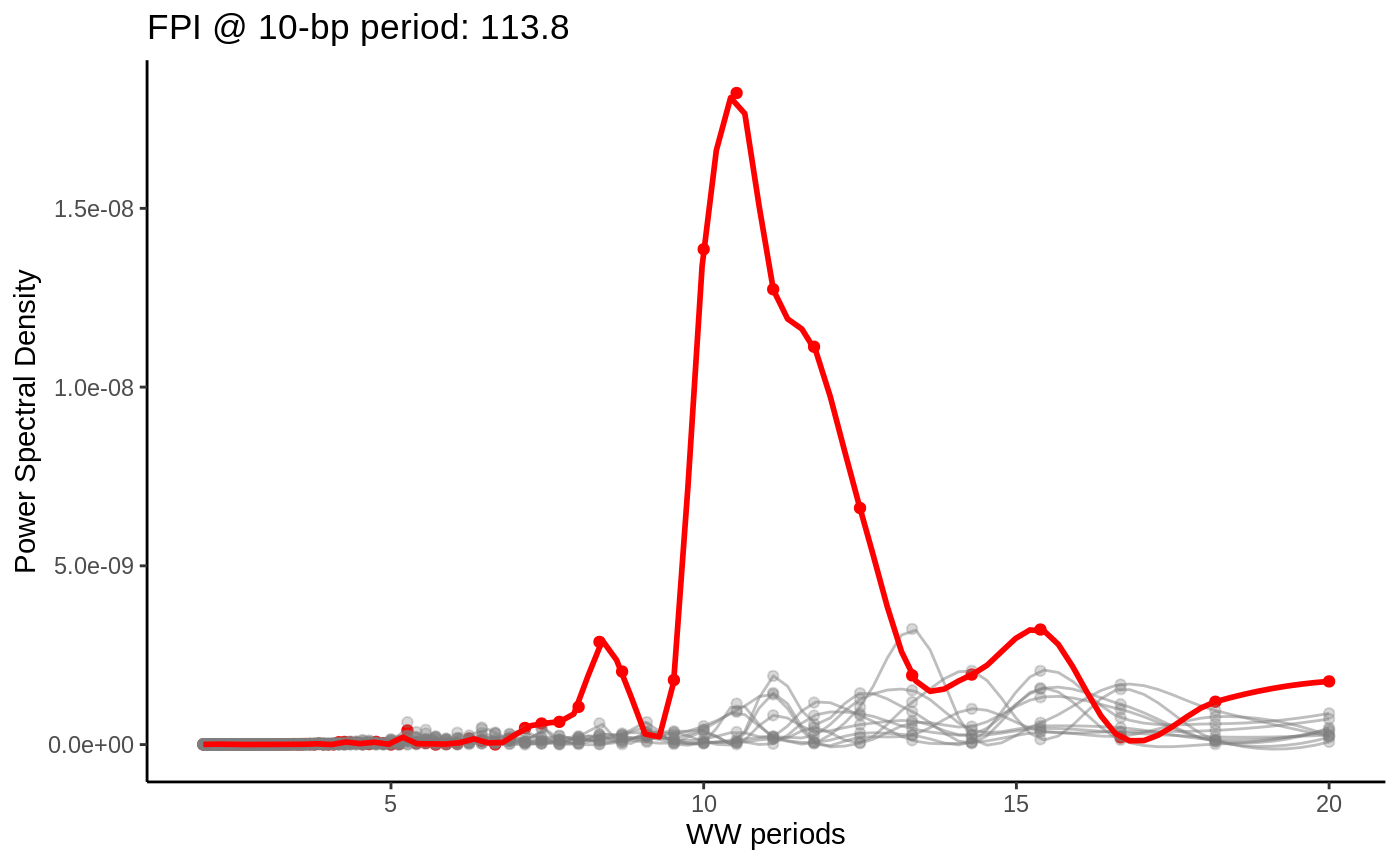
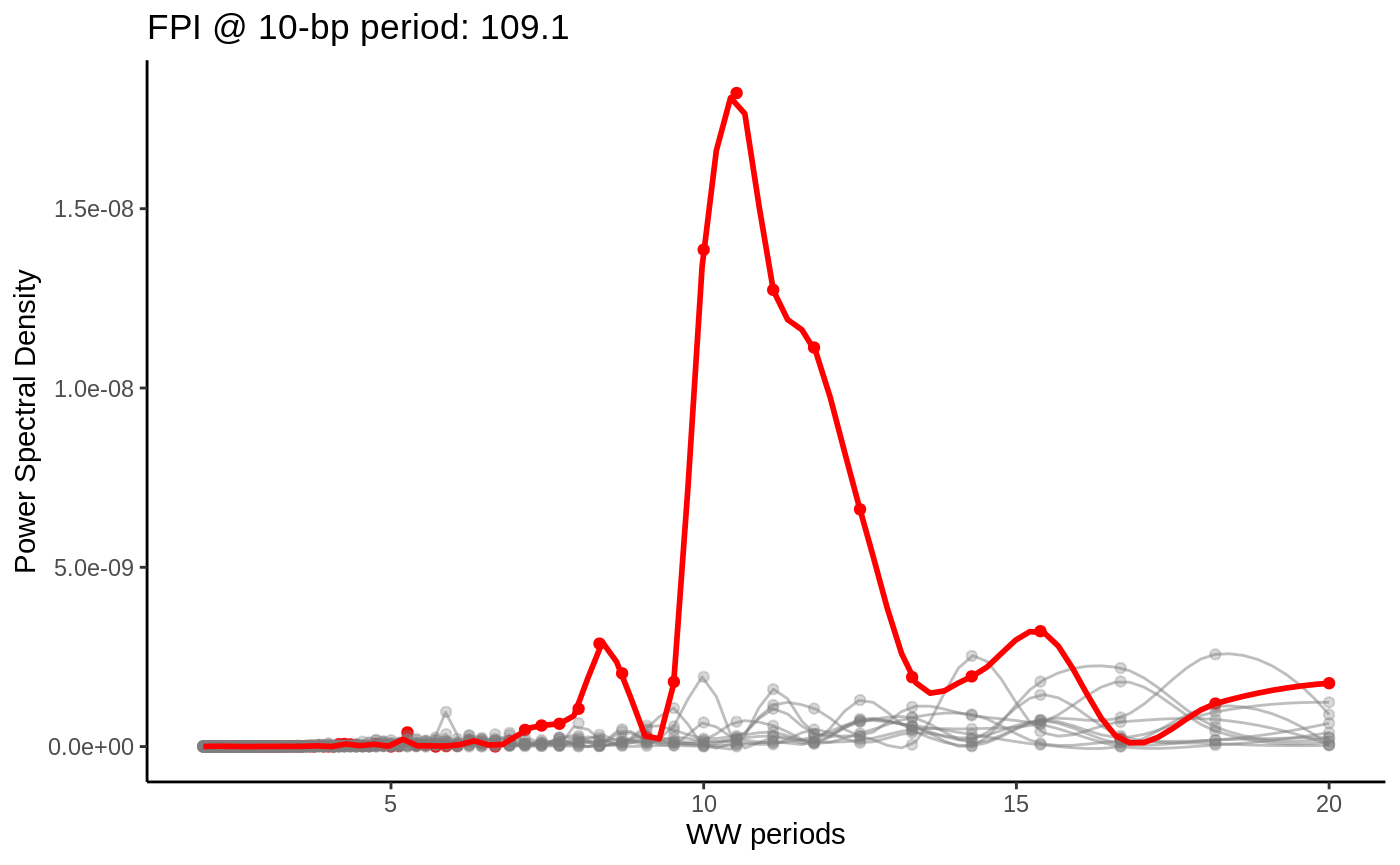
R 3.5 dependency; update vignette evals

diff --git a/docs/articles/periodicDNA.html b/docs/articles/periodicDNA.html
@@ -95,7 +95,7 @@
       <h1 data-toc-skip>periodicDNA</h1>
                         <h4 class="author">Jacques Serizay</h4>
             
-            <h4 class="date">2020-05-25</h4>
+            <h4 class="date">2020-05-26</h4>
       
       <small class="dont-index">Source: <a href="https://github.com/js2264/periodicDNA/blob/master/vignettes/periodicDNA.Rmd"><code>vignettes/periodicDNA.Rmd</code></a></small>
       <div class="hidden name"><code>periodicDNA.Rmd</code></div>
@@ -181,7 +181,7 @@
 <span class="no">fpi</span> <span class="kw">&lt;-</span> <span class="fu">getFPI</span>(
     <span class="no">ce11_random_regions</span>$<span class="no">seq</span>,
     <span class="kw">motif</span> <span class="kw">=</span> <span class="st">'WW'</span>,
-    <span class="kw">cores_shuffling</span> <span class="kw">=</span> <span class="fl">10</span>,
+    <span class="kw">cores_shuffling</span> <span class="kw">=</span> <span class="fl">1</span>,
     <span class="kw">n_shuffling</span> <span class="kw">=</span> <span class="fl">10</span>
 )
 <span class="co">#&gt; - Calculating observed PSD</span>
@@ -191,7 +191,17 @@
 <span class="co">#&gt; - Normalizing histogram vector.</span>
 <span class="co">#&gt; - Applying Fast Fourier Transform to the vector of distances.</span>
 <span class="co">#&gt; &gt;&gt; Measured PSD @ 10bp is: 1.38566883204698e-08</span>
-<span class="co">#&gt; &gt;&gt; Calculated FPI @ 10bp is: 113.796705810943</span>
+<span class="co">#&gt; - Shuffling 1/10</span>
+<span class="co">#&gt; - Shuffling 2/10</span>
+<span class="co">#&gt; - Shuffling 3/10</span>
+<span class="co">#&gt; - Shuffling 4/10</span>
+<span class="co">#&gt; - Shuffling 5/10</span>
+<span class="co">#&gt; - Shuffling 6/10</span>
+<span class="co">#&gt; - Shuffling 7/10</span>
+<span class="co">#&gt; - Shuffling 8/10</span>
+<span class="co">#&gt; - Shuffling 9/10</span>
+<span class="co">#&gt; - Shuffling 10/10</span>
+<span class="co">#&gt; &gt;&gt; Calculated FPI @ 10bp is: 109.118833154402</span>
 <span class="fu">plotFPI</span>(<span class="no">fpi</span>)
 <span class="co">#&gt; `geom_smooth()` using formula 'y ~ x'</span>
 <span class="co">#&gt; `geom_smooth()` using formula 'y ~ x'</span>

diff --git a/docs/reference/getPeriodicityTrack.html b/docs/reference/getPeriodicityTrack.html
@@ -252,7 +252,7 @@ to take into consideration when performing Fast Fourier Transform
 #&gt; <span class='message'>    Each job will analyse 549 bins.</span>
 #&gt; <span class='message'>    </span>
 #&gt; <span class='message'>    Now starting...</span>
-#&gt; <span class='message'>    </span></div><div class='output co'>#&gt; <span class='message'>&gt;&gt; 1 bins computed /// TIME: 2020-05-25 20:36:53</span></div><div class='output co'>#&gt; <span class='message'>&gt;&gt; 549 bins computed /// TIME: 2020-05-25 20:37:32</span></div><div class='output co'>#&gt; <span class='message'></span>
+#&gt; <span class='message'>    </span></div><div class='output co'>#&gt; <span class='message'>&gt;&gt; 1 bins computed /// TIME: 2020-05-26 11:52:17</span></div><div class='output co'>#&gt; <span class='message'>&gt;&gt; 549 bins computed /// TIME: 2020-05-26 11:52:52</span></div><div class='output co'>#&gt; <span class='message'></span>
 #&gt; <span class='message'>   SUCCESS: WW-periodicity_g-100^2_b-100^5.bw has been created!</span></div><div class='output co'>#&gt; <span class='message'>   1098 bases covered by the generated track.</span></div><div class='output co'>#&gt; RleList of length 1
 #&gt; $chrI
 #&gt; numeric-Rle of length 15072434 with 412 runs

diff --git a/docs/articles/internal-steps.html b/docs/articles/internal-steps.html
@@ -95,7 +95,7 @@
       <h1 data-toc-skip>How periodicDNA works</h1>
                         <h4 class="author">Jacques Serizay</h4>
             
-            <h4 class="date">2020-05-25</h4>
+            <h4 class="date">2020-05-26</h4>
       
       <small class="dont-index">Source: <a href="https://github.com/js2264/periodicDNA/blob/master/vignettes/internal-steps.Rmd"><code>vignettes/internal-steps.Rmd</code></a></small>
       <div class="hidden name"><code>internal-steps.Rmd</code></div>
